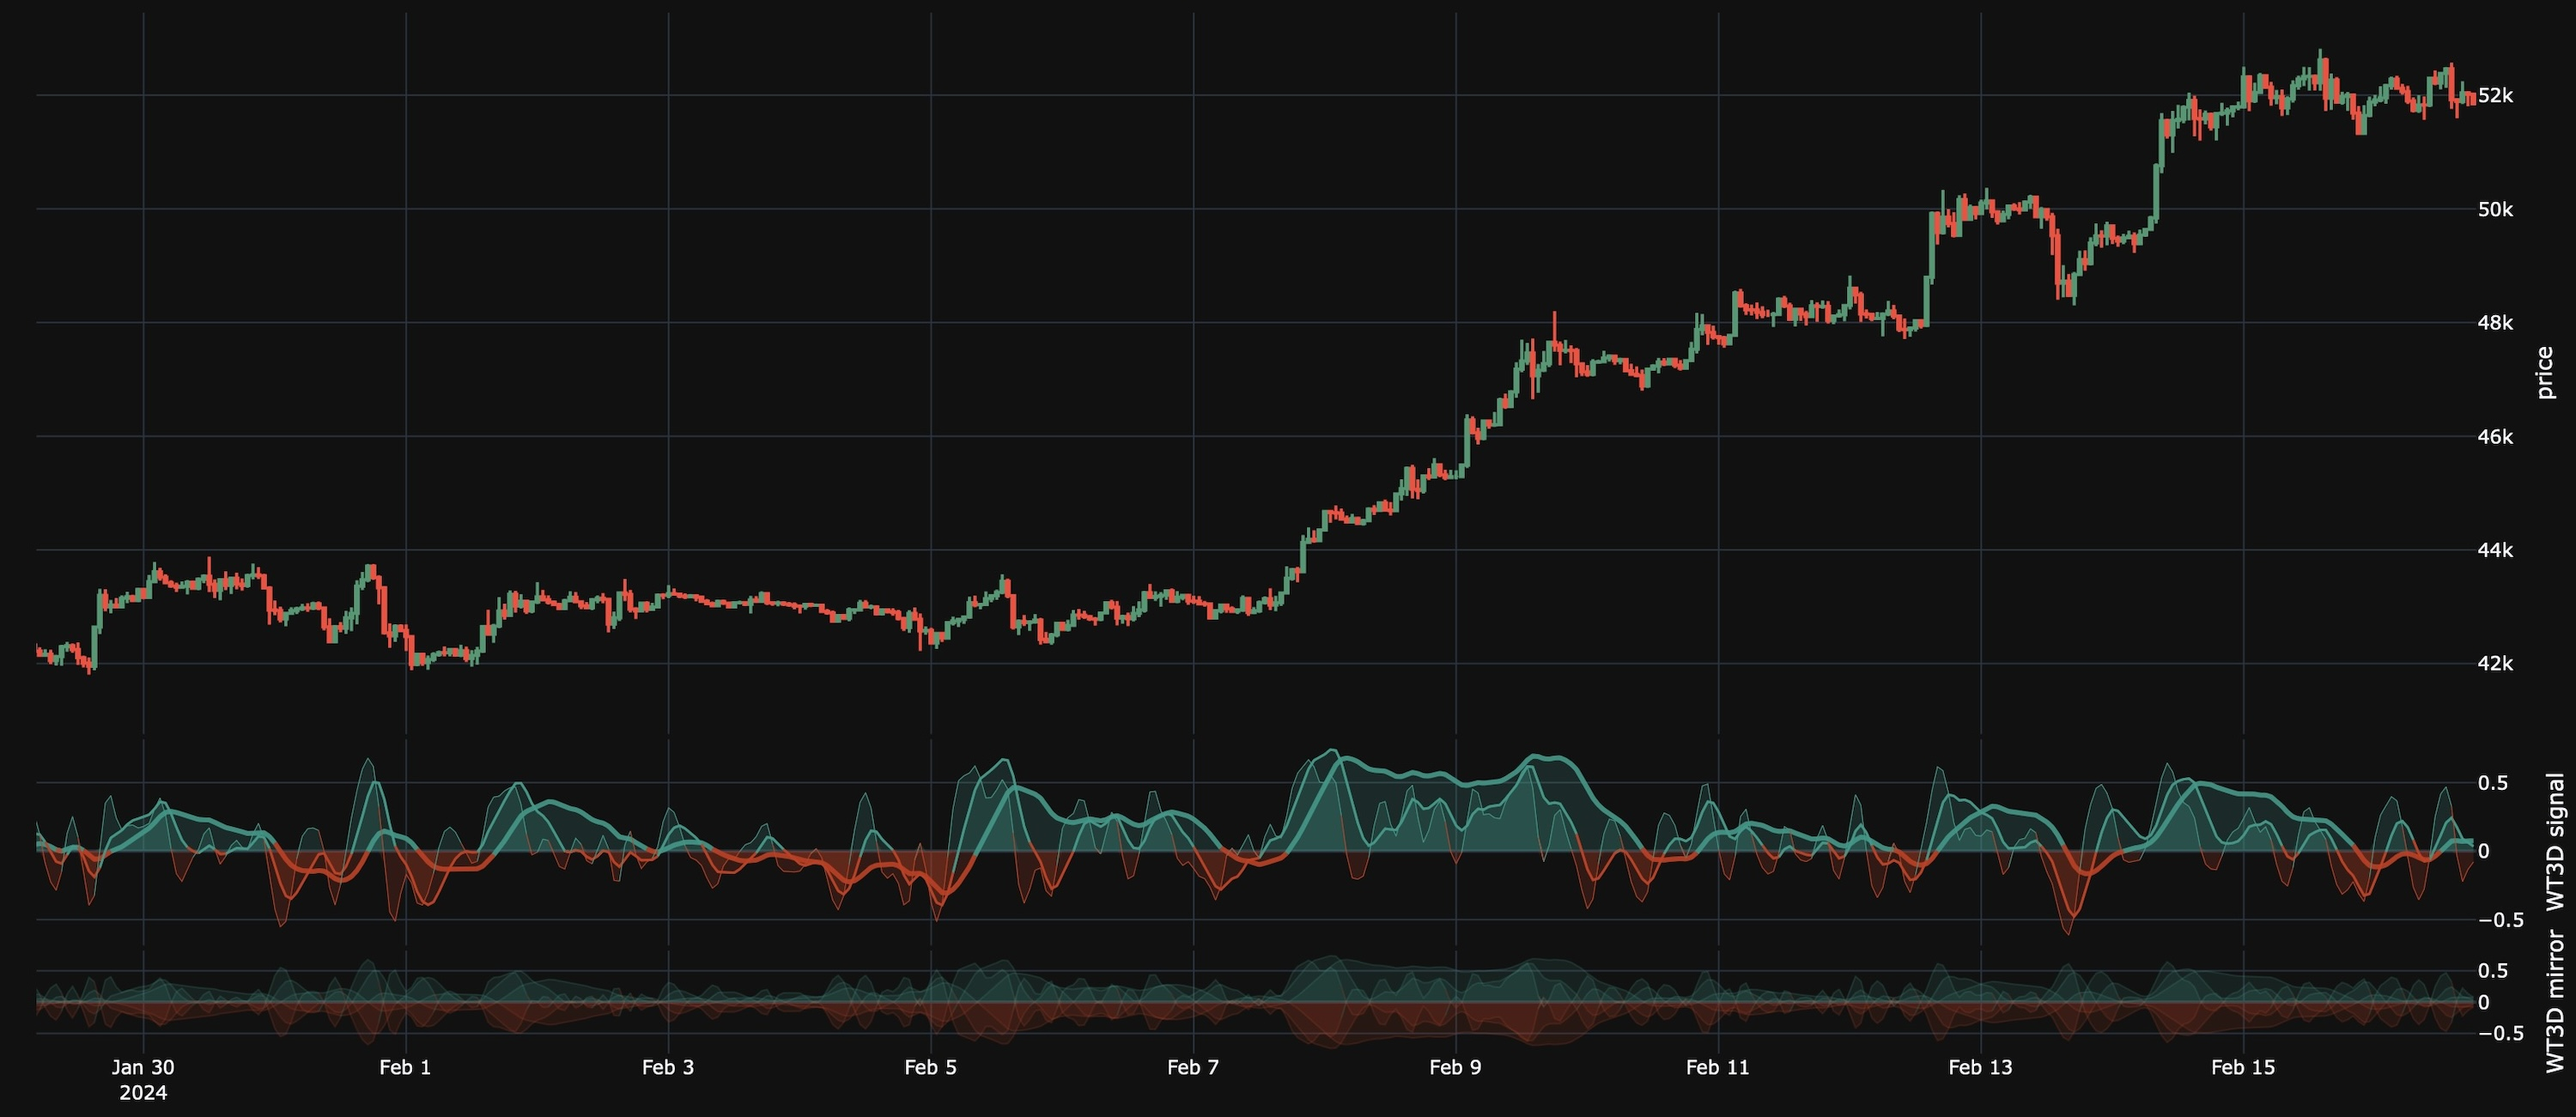
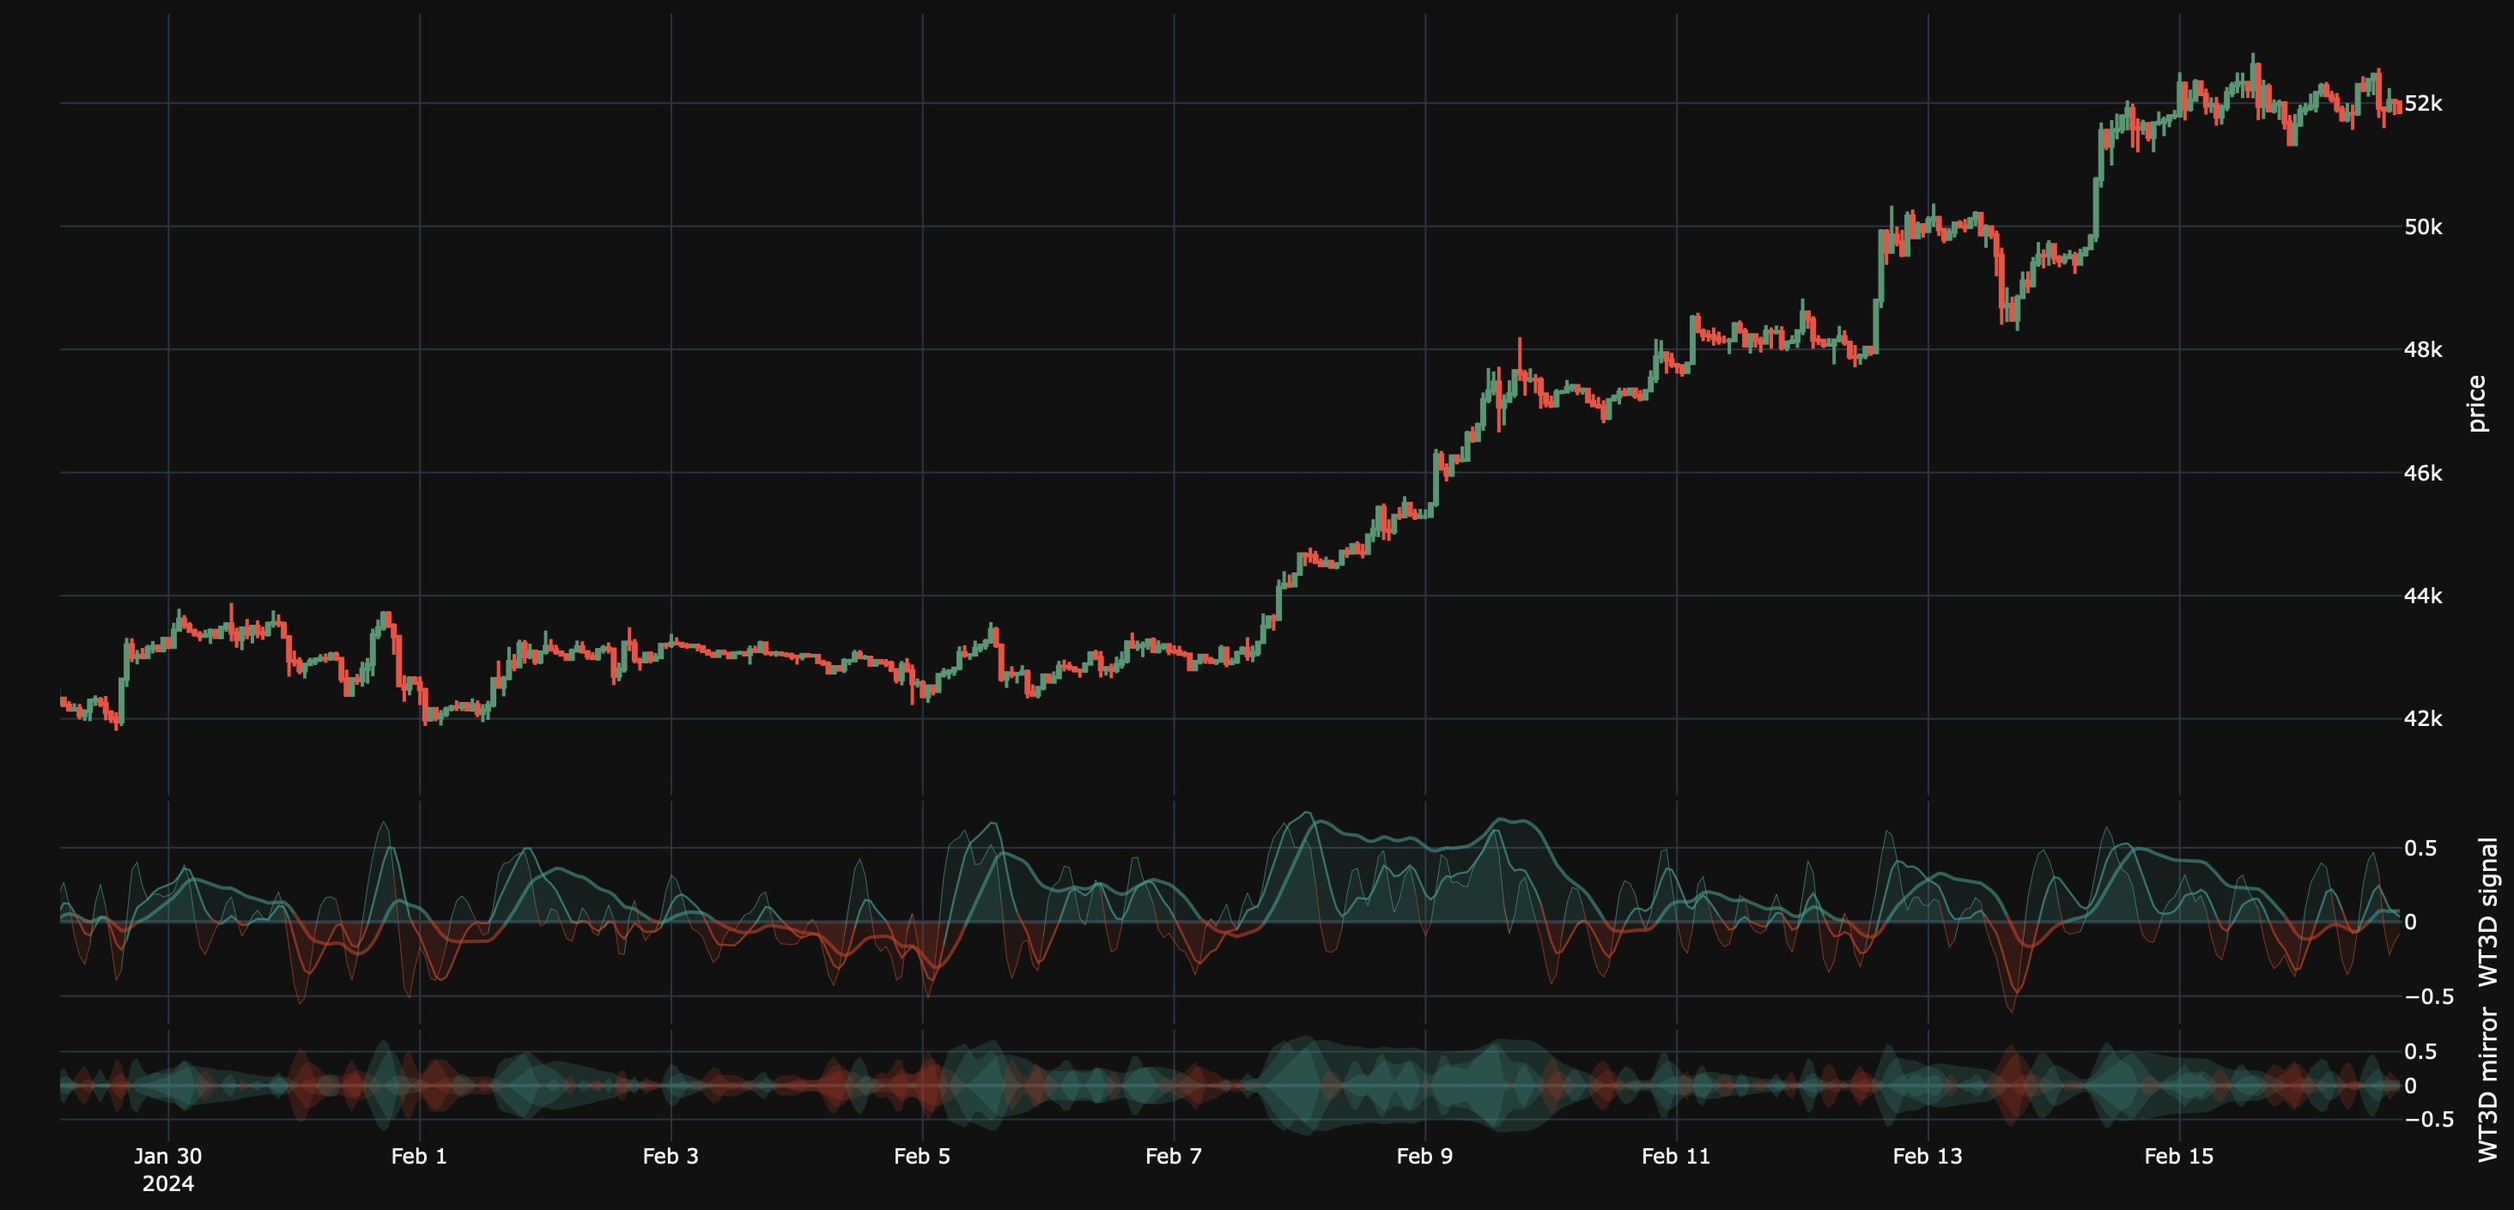
Fixed mirrored view colours and added unit tests for plotting

diff --git a/src/wavetrend_3d/plotting.py b/src/wavetrend_3d/plotting.py
@@ -143,10 +143,9 @@ def split_signal(signal: np.ndarray, fill=None, threshold=0):
 
 
 def add_oscillator(
-        fig: go.Figure, datetime: np.ndarray, signal: np.ndarray, name: str,
-        row: int = None, line_opacity: float = 1., fill_opacity: float = 1.,
-        line_width: Union[float, int] = 1, colour_pos=None, colour_neg=None,
-        show_legend: bool = True
+        fig: go.Figure, datetime: np.ndarray, signal: np.ndarray, name: str, row: int = None,
+        line_opacity: float = 1., fill_opacity: float = 1., line_width: Union[float, int] = 1,
+        colour_pos: str = None, colour_neg: str = None, mirror: bool = False, show_legend: bool = True
 ) -> go.Figure:
     """
     Add an oscillator subplot to a Plotly Figure with positive and negative values and a fill until the zero line
@@ -177,6 +176,9 @@ def add_oscillator(
         The color used to display positive values in the oscillator (default is '#009988', Google green).
     colour_neg : str, optional
         The color used to display negative values in the oscillator (default is '#CC3311', Google red).
+    mirror : bool, optional
+        When enabled, the output colour is reversed (positive <--> negative) to ensure mirrored values are correctly
+        displayed.
     show_legend : bool, optional, default: True
         Whether to show the series in the legend. In that case, only the lines will be shown in the legend,
         but they all will be connected as a group to be able to select and deselect interactively.
@@ -203,39 +205,48 @@ def add_oscillator(
 
     colour_pos = '#009988' if colour_pos is None else colour_pos  # standard green
     colour_neg = '#CC3311' if colour_neg is None else colour_neg  # standard red
+    colour_pos, colour_neg = (colour_neg, colour_pos) if mirror else (colour_pos, colour_neg)  # switch when mirrored
     transparent_colour = 'rgba(0, 0, 0, 0)'
 
-    signal_pos_bfill, signal_neg_bfill = split_signal(signal, 'bfill')
-    signal_pos_zero, signal_neg_zero = split_signal(signal, 'zero')
+    # Adjust to use colour_mapping for positive and negative signal colouring
+    signal_pos_bfill, signal_neg_bfill  = split_signal(-signal if mirror else signal, 'bfill')
+    signal_pos_zero, signal_neg_zero    = split_signal(-signal if mirror else signal, 'zero')
 
     # positive fill (this could have been done in one step, but Plotly makes the fill ugly)
-    fig.add_trace(go.Scatter(  # positive fill
+    fig.add_scatter(  # positive fill
         x=datetime, y=signal_pos_zero,
         name=f'{name} + fill', legendgroup=name, showlegend=False,
         line=dict(color=transparent_colour, width=0),  # do not show the line
         fill='tozeroy',
-        fillcolor=hex_to_rgba(colour_pos, fill_opacity)
-    ), row=row, col=1)
+        fillcolor=hex_to_rgba(colour_pos, fill_opacity),
+        row=row, col=1
+    )
+
     # negative fill
-    fig.add_trace(go.Scatter(
+    fig.add_scatter(
         x=datetime, y=signal_neg_zero,
         name=f'{name} - fill', legendgroup=name, showlegend=False,
         line=dict(color=transparent_colour, width=0),  # do not show the line
         fill='tozeroy',
         fillcolor=hex_to_rgba(colour_neg, fill_opacity),
-    ), row=row, col=1)
+        row=row, col=1
+    )
+
     # positive line
-    fig.add_trace(go.Scatter(
+    fig.add_scatter(
         x=datetime, y=signal_pos_bfill,
         name=f'{name} +', legendgroup=name, showlegend=show_legend,
-        line=dict(color=hex_to_rgba(colour_pos, line_opacity), width=line_width)
-    ), row=row, col=1)
+        line=dict(color=hex_to_rgba(colour_pos, line_opacity), width=line_width),
+        row=row, col=1
+    )
+
     # negative line
-    fig.add_trace(go.Scatter(
+    fig.add_scatter(
         x=datetime, y=signal_neg_bfill,
         name=f'{name} -', legendgroup=name, showlegend=show_legend,
-        line=dict(color=hex_to_rgba(colour_neg, line_opacity), width=line_width)
-    ), row=row, col=1)
+        line=dict(color=hex_to_rgba(colour_neg, line_opacity), width=line_width),
+        row=row, col=1
+    )
 
     return fig
 
@@ -262,30 +273,28 @@ class PlotWaveTrend3D:
             self._add_mirror_oscillator(signal_fast, signal_norm, signal_slow)
 
     def _add_main_oscillator(self, signal_fast, signal_norm, signal_slow):
-        general_config = dict(fig=self.fig, datetime=self.datetime, show_legend=True, row=2)
+        general_config = dict(fig=self.fig, datetime=self.datetime, show_legend=True, row=2, fill_opacity=0.1)
         self.fig = add_oscillator(signal=signal_slow, name='WT3D signal (slow)',
-                                  line_opacity=0.7, fill_opacity=0.1, line_width=3, **general_config)
+                                  line_opacity=0.6, line_width=2, **general_config)
         self.fig = add_oscillator(signal=signal_norm, name='WT3D signal (norm)',
-                                  line_opacity=0.9, fill_opacity=0.1, line_width=1.5, **general_config)
+                                  line_opacity=0.7, line_width=1.2, **general_config)
         self.fig = add_oscillator(signal=signal_fast, name='WT3D signal (fast)',
-                                  line_opacity=0.8, fill_opacity=0.1, line_width=0.5, **general_config)
+                                  line_opacity=0.7, line_width=0.5, **general_config)
 
     def _add_mirror_oscillator(self, signal_fast, signal_norm, signal_slow):
-        general_config = dict(fig=self.fig, datetime=self.datetime, row=3, line_opacity=0.2, fill_opacity=0.12)
-        self.fig = add_oscillator(signal=signal_slow, name='WT3D mirror (slow)', show_legend=True,
-                                  line_width=1, **general_config)
-        self.fig = add_oscillator(signal=-signal_slow, name='WT3D mirror (slow)', show_legend=False,
-                                  line_width=1, **general_config)
+        general_config = dict(fig=self.fig, datetime=self.datetime, row=3, fill_opacity=0.2, line_opacity=0.)
 
-        self.fig = add_oscillator(signal=signal_norm, name='WT3D mirror (norm)', show_legend=True,
-                                  line_width=1, **general_config)
-        self.fig = add_oscillator(signal=-signal_norm, name='WT3D mirror (norm)', show_legend=False,
-                                  line_width=1, **general_config)
+        self.fig = add_oscillator(signal=signal_slow, name='WT3D mirror (slow)', show_legend=True, **general_config)
+        self.fig = add_oscillator(
+            signal=signal_slow, name='WT3D mirror (slow)', show_legend=False, mirror=True, **general_config)
 
-        self.fig = add_oscillator(signal=signal_fast, name='WT3D mirror (fast)', show_legend=True,
-                                  line_width=1, **general_config)
-        self.fig = add_oscillator(signal=-signal_fast, name='WT3D mirror (fast)', show_legend=False,
-                                  line_width=1, **general_config)
+        self.fig = add_oscillator(signal=signal_norm, name='WT3D mirror (norm)', show_legend=True, **general_config)
+        self.fig = add_oscillator(
+            signal=signal_norm, name='WT3D mirror (norm)', show_legend=False, mirror=True, **general_config)
+
+        self.fig = add_oscillator(signal=signal_fast, name='WT3D mirror (fast)', show_legend=True, **general_config)
+        self.fig = add_oscillator(
+            signal=signal_fast, name='WT3D mirror (fast)', show_legend=False, mirror=True, **general_config)
 
     def _initialize_ohlc(self, df: pl.DataFrame, market=None, interval=None):
         if not isinstance(df, pl.DataFrame):
@@ -380,4 +389,5 @@ class PlotWaveTrend3D:
 
     def show(self):
         self._fig_final_layout()
+        # self.fig.update_layout(template='plotly_dark', showlegend=False)  # for /assets/plotting_screenshot.jpg
         self.fig.show()

diff --git a/tests/test_wavetrend_3d.py b/tests/test_wavetrend_3d.py
@@ -1,29 +1,12 @@
+# test_wavetrend_3d.py
+
 import numpy as np
-import polars as pl
 import pytest
-from pathlib import Path
 from src.wavetrend_3d.wavetrend_3d import WaveTrend3D
+from src.wavetrend_3d.plotting import PlotWaveTrend3D
 
 
 class TestWaveTrend3D:
-    @pytest.fixture(scope="class")
-    def df(self):
-        """Fixture to load the dataframe once for all tests in this class."""
-        base_dir = Path(__file__).resolve().parent
-        data_file_path = base_dir / 'data/sample_btc_data.parquet'
-        assert data_file_path.exists(), 'Path with sample data not found'
-        return pl.read_parquet(data_file_path)
-
-    @pytest.fixture
-    def sample_numpy_data(self, df):
-        """Sample numpy array data for testing."""
-        return df.select('close').to_numpy()
-
-    @pytest.fixture
-    def sample_polars_series(self, df):
-        """Sample Polars Series data for testing."""
-        return df['close']
-
     def test_initialization_with_numpy_array(self, sample_numpy_data):
         """Test initialization with a Numpy array."""
         wt3d = WaveTrend3D(sample_numpy_data)
@@ -63,3 +46,30 @@ class TestWaveTrend3D:
         pass
         # wt3d = WaveTrend3D(sample_numpy_data)
         # TODO This test checks the returned values
+
+
+class TestPlotWaveTrend3D:
+    @pytest.fixture(scope='class')
+    def plot(self, df, sample_polars_series):
+        wt3d = WaveTrend3D(sample_polars_series)
+        series_fast, series_norm, series_slow = wt3d.get_series()
+
+        plot = PlotWaveTrend3D([.7, .2, .1], height=800)
+        plot.add_candles(df, 'BTC-USDT', '1h')
+        plot.add_oscillators(series_fast, series_norm, series_slow, main=True, mirror=True)
+
+        return plot
+
+    def test_plotting_data(self, plot, monkeypatch):
+        # Mock the `show` method to do nothing
+        monkeypatch.setattr("plotly.graph_objs.Figure.show", lambda x: None)
+        plot.show()
+
+        assert plot.fig is not None, "Plot figure should not be None"
+        assert len(plot.fig.data) > 0, "Plot figure should contain data"
+
+        # Check if the number of traces matches the expected number
+        assert len(plot.fig.data) > 10, f"Expected more than 10 traces, got {len(plot.fig.data)}"
+
+        # Check if titles, axis labels, or other properties are set correctly
+        assert plot.fig.layout.title.text is not None, "Plot should have a title"

diff --git a/tests/conftest.py b/tests/conftest.py
@@ -1,0 +1,23 @@
+# conftest.py
+
+import pytest
+import polars as pl
+from pathlib import Path
+
+
+@pytest.fixture(scope="module")
+def df():
+    base_dir = Path(__file__).resolve().parent
+    data_file_path = base_dir / 'data/sample_btc_data.parquet'
+    assert data_file_path.exists(), 'Path with sample data not found'
+    return pl.read_parquet(data_file_path)
+
+
+@pytest.fixture(scope="module")
+def sample_numpy_data(df):
+    return df.select('close').to_numpy()
+
+
+@pytest.fixture(scope="module")
+def sample_polars_series(df):
+    return df['close']
